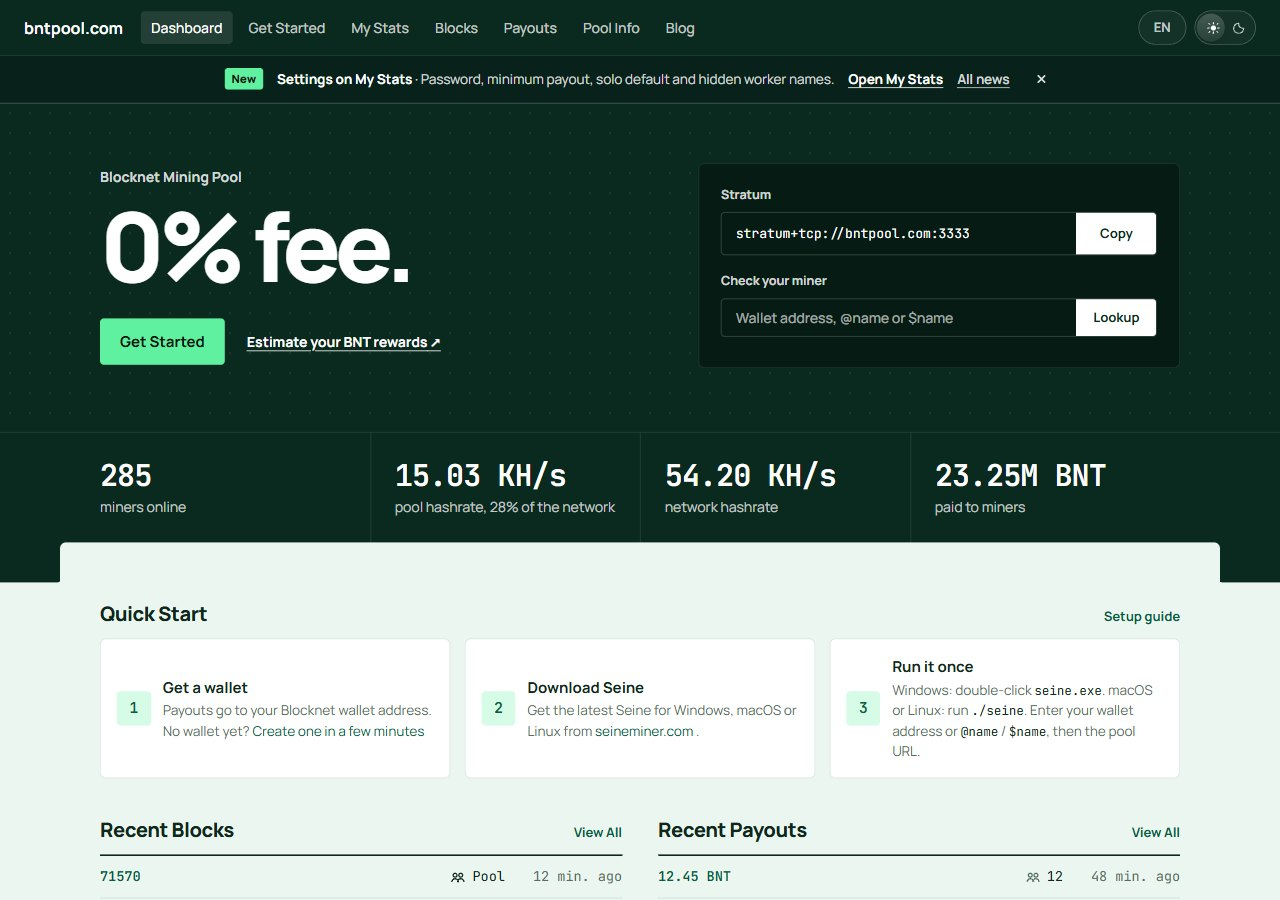
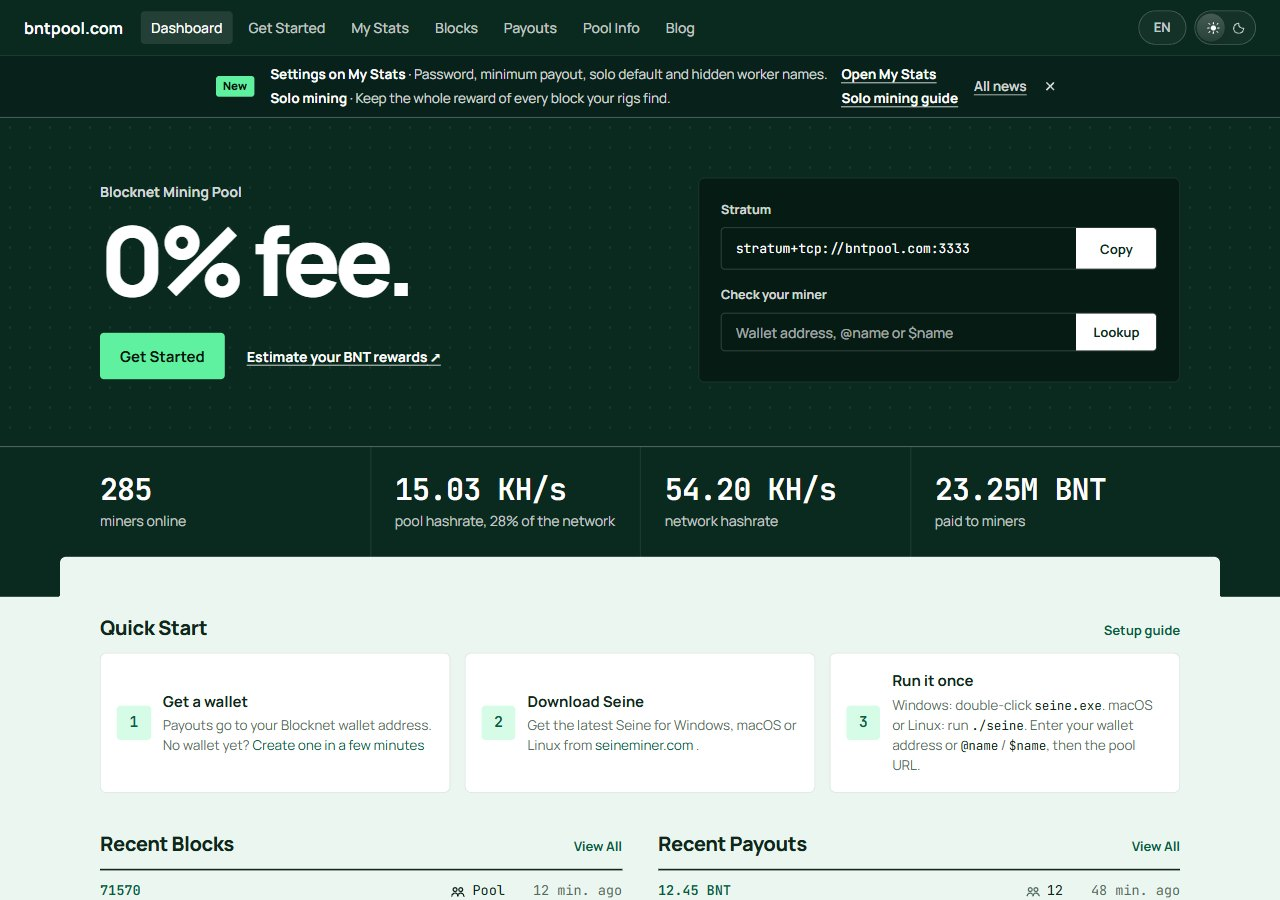
Show the two newest pool news items in the strip
The strip under the menu lists the two newest items from the last 30
days, one line each with its link, beside one New tag, All news and a
dismiss button. Dismissing hides the items shown; items published later
still appear. On phones each title and link wrap together.

Claude-Session: https://claude.ai/code/session_01X8haTGt1kjTYFpCBSubuty
(cherry picked from commit 53af03fe1e3c634fa92afaa31560479324621366)

diff --git a/frontend/src/styles.css b/frontend/src/styles.css
@@ -2573,14 +2573,17 @@ html { scroll-padding-top: 72px; }
 
 /* Pool news: a one-line strip under the menu with the newest item, the /news archive, and a dot on the tab an item announces. */
 .news-strip { background: #08211a; color: #ffffff; border-bottom: 1px solid rgba(255, 255, 255, 0.1); font-size: 13.5px; }
-.news-strip-inner { max-width: 1120px; margin: 0 auto; padding: 9px 20px; display: flex; flex-wrap: wrap; justify-content: center; align-items: center; gap: 6px 14px; }
+.news-strip-inner { max-width: 1120px; margin: 0 auto; padding: 8px 20px; display: grid; grid-template-columns: auto minmax(0, auto) auto; justify-content: center; align-items: center; gap: 6px 16px; }
+.news-strip-items { list-style: none; margin: 0; padding: 0; display: grid; grid-template-columns: minmax(0, auto) auto; gap: 4px 14px; min-width: 0; }
+.news-strip-items li { grid-column: 1 / -1; display: grid; grid-template-columns: subgrid; align-items: baseline; min-width: 0; }
+.news-strip-actions { display: flex; align-items: center; gap: 10px; }
 .news-strip-tag { padding: 2px 7px; border-radius: 3px; background: #5ff0a0; color: #04150c; font-size: 11.5px; font-weight: 800; line-height: 1.5; }
 .news-strip-text { min-width: 0; color: rgba(255, 255, 255, 0.82); }
 .news-strip-text strong { color: #ffffff; }
 .news-strip a { color: #ffffff; font-weight: 700; text-decoration: underline; text-underline-offset: 3px; }
 .news-strip a.news-strip-all { font-weight: 600; color: rgba(255, 255, 255, 0.82); }
 .news-strip a:focus-visible, .news-strip button:focus-visible { outline: 2px solid #ffffff; outline-offset: 2px; }
-.news-strip-close { margin-inline-start: 4px; display: grid; place-items: center; width: 28px; height: 28px; padding: 0; border: 0; border-radius: 4px; background: none; color: rgba(255, 255, 255, 0.82); cursor: pointer; }
+.news-strip-close { display: grid; place-items: center; width: 28px; height: 28px; padding: 0; border: 0; border-radius: 4px; background: none; color: rgba(255, 255, 255, 0.82); cursor: pointer; }
 .news-strip-close:hover { color: #ffffff; background: rgba(255, 255, 255, 0.08); }
 .news-date { font-family: 'JetBrains Mono', system-ui, sans-serif; font-size: 13px; font-weight: 600; color: var(--muted); white-space: nowrap; }
 .news-entry .inline-code { background: none; padding: 0; color: var(--text); font-size: 0.93em; }
@@ -2596,8 +2599,9 @@ html { scroll-padding-top: 72px; }
 .tab-new-dot { display: inline-block; width: 7px; height: 7px; margin-inline-start: 6px; border-radius: 50%; background: #16c172; vertical-align: 2px; }
 @media (max-width: 640px) {
   .news-strip-short, .news-strip a.news-strip-all { display: none; }
-  .news-strip-inner { flex-wrap: nowrap; justify-content: flex-start; padding: 9px 16px; gap: 10px; }
-  .news-strip-text { flex: 1; }
-  .news-strip-close { margin-inline-start: auto; }
+  .news-strip-inner { grid-template-columns: auto minmax(0, 1fr) auto; justify-content: stretch; padding: 8px 16px; gap: 6px 10px; }
+  .news-strip-items { grid-template-columns: minmax(0, 1fr); gap: 4px; }
+  .news-strip-items li { display: block; }
+  .news-strip-items a { margin-inline-start: 10px; }
   .news-timeline li { grid-template-columns: minmax(0, 1fr); gap: 6px; padding: 18px; }
 }

diff --git a/frontend/src/lib/news.ts b/frontend/src/lib/news.ts
@@ -27,8 +27,11 @@ export const NEWS: readonly NewsItem[] = [
 const DAY_MS = 86_400_000;
 /** Days an item stays in the news strip and keeps its "New" marks. */
 export const NEWS_FRESH_DAYS = 30;
+/** Most items the strip shows at once, one line each. */
+export const STRIP_LIMIT = 2;
 
-const DISMISSED_KEY = 'pool_news_dismissed_v1';
+// The titleKeys of dismissed items, as a JSON array.
+export const DISMISSED_KEY = 'pool_news_dismissed_v2';
 const SEEN_KEY = (feature: Feature) => `pool_news_seen_${feature}_v1`;
 
 export function newsTime(item: NewsItem): number {
@@ -45,14 +48,12 @@ export function publishedNews(now = Date.now(), items: readonly NewsItem[] = NEW
   return items.filter((item) => newsTime(item) <= now);
 }
 
-/**
- * The item the news strip shows: the newest fresh one published after the day the visitor last
- * dismissed the strip, or null.
- */
-export function stripNews(now = Date.now(), dismissedThrough: string | null = readDismissed(),
-  items: readonly NewsItem[] = NEWS): NewsItem | null {
+/** The items the news strip shows: fresh ones the visitor hasn't dismissed, newest first, at most STRIP_LIMIT. */
+export function stripNews(now = Date.now(), dismissed: readonly string[] = readDismissed(),
+  items: readonly NewsItem[] = NEWS): NewsItem[] {
   return publishedNews(now, items)
-    .find((item) => isFresh(item, now) && (dismissedThrough == null || item.date > dismissedThrough)) ?? null;
+    .filter((item) => isFresh(item, now) && !dismissed.includes(item.titleKey))
+    .slice(0, STRIP_LIMIT);
 }
 
 function storageGet(key: string): string | null {
@@ -67,18 +68,27 @@ function storageSet(key: string, value: string) {
   try {
     localStorage.setItem(key, value);
   } catch {
-    // Blocked storage: the section or dot comes back on the next visit.
+    // Blocked storage: the strip or dot comes back on the next visit.
   }
 }
 
-function readDismissed(): string | null {
-  const value = storageGet(DISMISSED_KEY);
-  return value && /^\d{4}-\d{2}-\d{2}$/.test(value) ? value : null;
+function readDismissed(): string[] {
+  try {
+    const value: unknown = JSON.parse(storageGet(DISMISSED_KEY) ?? '[]');
+    return Array.isArray(value) ? value.filter((key): key is string => typeof key === 'string') : [];
+  } catch {
+    return [];
+  }
 }
 
-/** Hides the strip until an item newer than the dismissed one is published. */
-export function dismissStripNews(item: NewsItem) {
-  storageSet(DISMISSED_KEY, item.date);
+/**
+ * Hides every item the strip shows; items published later still appear. Keys of items no longer
+ * in the catalog are dropped so the list stays short.
+ */
+export function dismissStripNews(shown: readonly NewsItem[]) {
+  const known = new Set(NEWS.map((item) => item.titleKey));
+  const keys = new Set([...readDismissed().filter((key) => known.has(key)), ...shown.map((item) => item.titleKey)]);
+  storageSet(DISMISSED_KEY, JSON.stringify([...keys]));
 }
 
 /** Whether a tab should carry the "new" dot: a fresh item announces it and it hasn't been opened since. */

diff --git a/frontend/src/components/News.tsx b/frontend/src/components/News.tsx
@@ -18,19 +18,27 @@ const body = (item: NewsItem) => tx(item.bodyKey, [SOLO]);
 
 const CLOSE = <svg viewBox="0 0 16 16" width="14" height="14" aria-hidden="true"><path d="M4 4l8 8M12 4l-8 8" stroke="currentColor" strokeWidth="1.8" strokeLinecap="round" /></svg>;
 
-/** One line under the menu with the newest fresh item; hidden once nothing is fresh or the visitor dismisses it. */
+/** Up to STRIP_LIMIT lines under the menu with the newest fresh items; hidden once none is fresh or the visitor dismisses them. */
 export function NewsStrip() {
-  const [item, setItem] = useState(() => stripNews());
-  if (!item) return null;
+  const [items, setItems] = useState(() => stripNews());
+  if (!items.length) return null;
   return (
     <div className="news-strip" role="region" aria-label={t('newsNav')}>
       <div className="news-strip-inner">
         <span className="news-strip-tag">{t('newsNew')}</span>
-        <span className="news-strip-text"><strong>{t(item.titleKey)}</strong><span className="news-strip-short"><span aria-hidden="true"> · </span>{t(item.shortKey)}</span></span>
-        <a href={newsHref(item.href)}>{t(item.linkKey)}</a>
-        <a className="news-strip-all" href={localizePath('/news')}>{t('newsAll')}</a>
-        <button type="button" className="news-strip-close" aria-label={t('newsDismiss')} title={t('newsDismiss')}
-          onClick={() => { dismissStripNews(item); setItem(null); }}>{CLOSE}</button>
+        <ul className="news-strip-items">
+          {items.map((item) => (
+            <li key={item.titleKey}>
+              <span className="news-strip-text"><strong>{t(item.titleKey)}</strong><span className="news-strip-short"><span aria-hidden="true"> · </span>{t(item.shortKey)}</span></span>
+              <a href={newsHref(item.href)}>{t(item.linkKey)}</a>
+            </li>
+          ))}
+        </ul>
+        <div className="news-strip-actions">
+          <a className="news-strip-all" href={localizePath('/news')}>{t('newsAll')}</a>
+          <button type="button" className="news-strip-close" aria-label={t('newsDismiss')} title={t('newsDismiss')}
+            onClick={() => { dismissStripNews(items); setItems([]); }}>{CLOSE}</button>
+        </div>
       </div>
     </div>
   );

diff --git a/frontend/showcases/front-page/showcase.tsx b/frontend/showcases/front-page/showcase.tsx
@@ -3,6 +3,7 @@ import { createRoot } from 'react-dom/client';
 import { App } from '../../src/App';
 import { initializeLanguage } from '../../src/i18n';
 import { applyTheme } from '../../src/lib/theme';
+import { DISMISSED_KEY, NEWS } from '../../src/lib/news';
 import type { BlockItem, CheckpointsResponse, InfoResponse, LuckRound, MinerResponse, PayoutItem } from '../../src/types';
 import '../../src/styles.css';
 
@@ -38,9 +39,9 @@ applyTheme(theme);
 // Pool news: `news=on` shows the recent items and the Settings tab dot as a first-time visitor
 // sees them; otherwise every state shows the page as it looks once the news is dismissed.
 const newsOn = params.get('news') === 'on';
-for (const key of ['pool_news_dismissed_v1', 'pool_news_seen_settings_v1']) {
+for (const key of [DISMISSED_KEY, 'pool_news_seen_settings_v1']) {
   if (newsOn) localStorage.removeItem(key);
-  else localStorage.setItem(key, '9999-12-31');
+  else localStorage.setItem(key, key === DISMISSED_KEY ? JSON.stringify(NEWS.map((item) => item.titleKey)) : '9999-12-31');
 }
 
 const WALLET = 'demo-miner-not-a-real-wallet';

diff --git a/frontend/showcases/pool-news/README.md b/frontend/showcases/pool-news/README.md
@@ -5,10 +5,10 @@ http://localhost:5201/showcases/front-page/?state=first&news=on for the front pa
 `state=blocks&news=on` for an inner page, `state=stats&news=on` for the Settings tab dot and `state=news` for
 the archive. Add `theme=dark`, `lang=ar` or `chrome=off` as usual. Every state uses synthetic data.
 
-- News strip: one line under the menu on every page except `/news`, Admin and the wallet. It shows the newest
-  item from the last 30 days: a New tag, the title, a short summary, the item's link, All news and a dismiss
-  button. Phones keep the tag, title, link and dismiss button. Dismissing hides it until an item newer than the
-  dismissed one is published; with nothing from the last 30 days there is no strip.
+- News strip: under the menu on every page except `/news`, Admin and the wallet. It shows the two newest items
+  from the last 30 days, one line each with the title, a short summary and the item's link, beside one New tag,
+  All news and a dismiss button. Phones keep the tag, titles, links and dismiss button. Dismissing hides the
+  items shown; later items still appear. With nothing from the last 30 days there is no strip.
 - `/news`: every published item, newest first, with a New chip on items from the last 30 days. It is linked
   from the strip and the footer (not the main menu), listed in the sitemap and prerendered in every language.
 - Settings tab: an item can name the tab it announces. That tab carries a dot while the item is fresh, until
@@ -19,5 +19,5 @@ item needs all 20 languages. Dismissals and opened tabs are stored per browser; 
 again on the next visit.
 
 The captures in `captures/` cover the strip (front page, returning miner, Blocks, after dismissing, dark,
-Arabic, phone), the archive (light, dark, Arabic, phone) and My Stats (dot, phone, after opening Settings), at
+Arabic, phone in English, Arabic and German), the archive (light, dark, Arabic, phone) and My Stats (dot, phone, after opening Settings), at
 1280 px and 390 px. Captured 2026-11-04 through the shared Playwright browser.

diff --git a/frontend/showcases/front-page/README.md b/frontend/showcases/front-page/README.md
@@ -34,9 +34,9 @@ pool, explorer or analytics endpoint. States:
 - `news`: What's new, the news archive linked from the footer, newest first, with a New chip on items
   from the last 30 days.
 
-Add `news=on` to any state to see pool news as a visitor who hasn't dismissed it: a one-line strip under the
-menu on every page except the archive, with the newest item from the last 30 days, its link, All news and a
-dismiss button, and a dot on the My Stats Settings tab until Settings is opened once. Without it every state
+Add `news=on` to any state to see pool news as a visitor who hasn't dismissed it: a strip under the menu on
+every page except the archive, with the two newest items from the last 30 days (one line each, with its link),
+All news and a dismiss button, and a dot on the My Stats Settings tab until Settings is opened once. Without it every state
 shows the page as it looks once the news is dismissed. News captures live in `../pool-news/captures/`.
 
 Every page shares the front page's style: a Mint page under the dark green nav and a deep green
